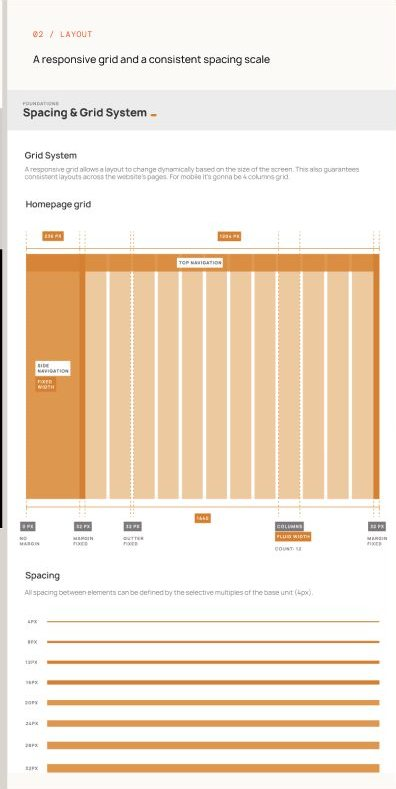
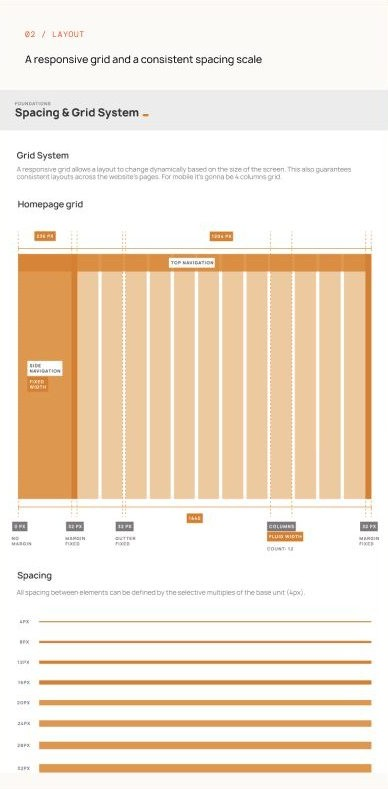
fix(portfolio): match the Sysdyne documentation section to the reference
Set the four-line headline, the copy and pills, and the six documentation cards to the frame.

diff --git a/css/study.css b/css/study.css
@@ -592,6 +592,38 @@
 .pill-row { display: flex; flex-wrap: wrap; gap: 8px; margin-top: 28px; }
 .pill-row span { border-color: #cfc9c1; color: #3f3c38; }
 
+.study-docs { background: #d9d5ce; }
+.docs-head {
+  display: grid;
+  grid-template-columns: minmax(0, 1.2fr) minmax(240px, 0.72fr);
+  column-gap: 48px;
+  align-items: start;
+}
+.docs-head .eyebrow { grid-column: 1; margin-bottom: 28px; }
+.docs-head h2 {
+  grid-column: 1;
+  font-size: clamp(52px, 6.4vw, 88px);
+  line-height: 0.9;
+  letter-spacing: -0.045em;
+}
+.docs-copy { grid-column: 2; grid-row: 2; padding-top: 6px; }
+.docs-copy .prose {
+  max-width: 42ch;
+  color: #5e5a54;
+  font-size: 16px;
+  line-height: 1.45;
+}
+.study-docs .pill-row { margin-top: 28px; }
+.study-docs .pill-row span {
+  border-color: #b7b3ad;
+  color: #171614;
+  background: transparent;
+  text-transform: uppercase;
+  letter-spacing: 0.08em;
+  font-weight: 600;
+}
+.study-docs .docs { margin-top: 72px; gap: 40px 14px; }
+
 .docs, .shots {
   display: grid;
   grid-template-columns: repeat(3, minmax(0, 1fr));
@@ -758,6 +790,9 @@
   .decision .prose { grid-column: 1; grid-row: auto; max-width: none; }
   .decision h2 { font-size: clamp(40px, 12vw, 64px); }
   .build-head { grid-template-columns: 1fr; gap: 16px; margin-bottom: 28px; }
+  .docs-head { grid-template-columns: 1fr; }
+  .docs-copy { grid-column: 1; grid-row: auto; }
+  .docs-head h2 { font-size: clamp(40px, 12vw, 64px); }
   .panel-card { min-height: 0; padding: 28px 22px 32px; }
   .system-link::before { display: none; }
   .system-card { min-height: 0; padding: 24px; }

diff --git a/content/case-studies/sysdyne.html b/content/case-studies/sysdyne.html
@@ -173,11 +173,12 @@
     </div>
   </section>
 
-  <section class="study-section" style="padding-top: 0">
+  <section class="study-section study-docs">
     <div class="study-wrap">
-      <div class="split">
-        <h2>Designed beyond the component library.</h2>
-        <div>
+      <div class="docs-head">
+        <p class="eyebrow">Desktop system in practice</p>
+        <h2>Designed<br />beyond the<br />component<br />library.</h2>
+        <div class="docs-copy">
           <p class="prose">The system documented not only how components looked, but how they were built, scaled, and used. Foundations, component anatomy, responsive behavior, and usage guidance gave designers and developers a shared point of reference.</p>
           <div class="pill-row"><span>Foundations</span><span>Components</span><span>Guidelines</span></div>
         </div>

diff --git a/portfolio.html b/portfolio.html
@@ -10,7 +10,7 @@
     <link rel="preconnect" href="https://fonts.gstatic.com" crossorigin />
     <link href="https://fonts.googleapis.com/css2?family=Manrope:wght@200;500;600;700;800&display=swap" rel="stylesheet" />
     <link rel="stylesheet" href="css/site.css?v=20251113p" />
-    <link rel="stylesheet" href="css/study.css?v=20251113u" />
+    <link rel="stylesheet" href="css/study.css?v=20261116a" />
   </head>
   <body>
     <div class="shell shell-viewport portfolio-page">
